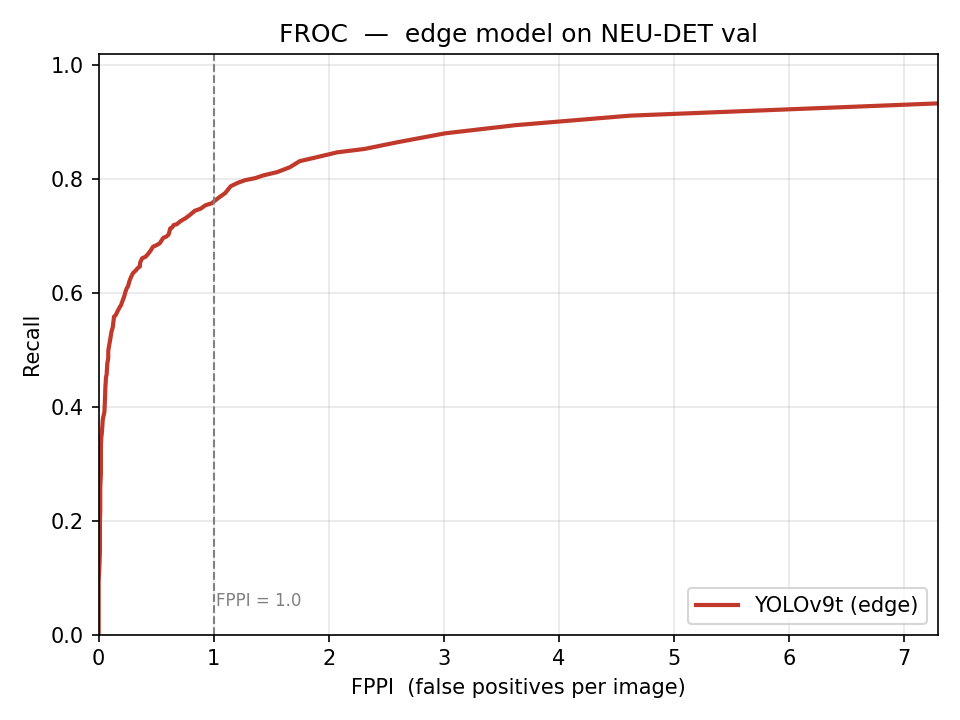
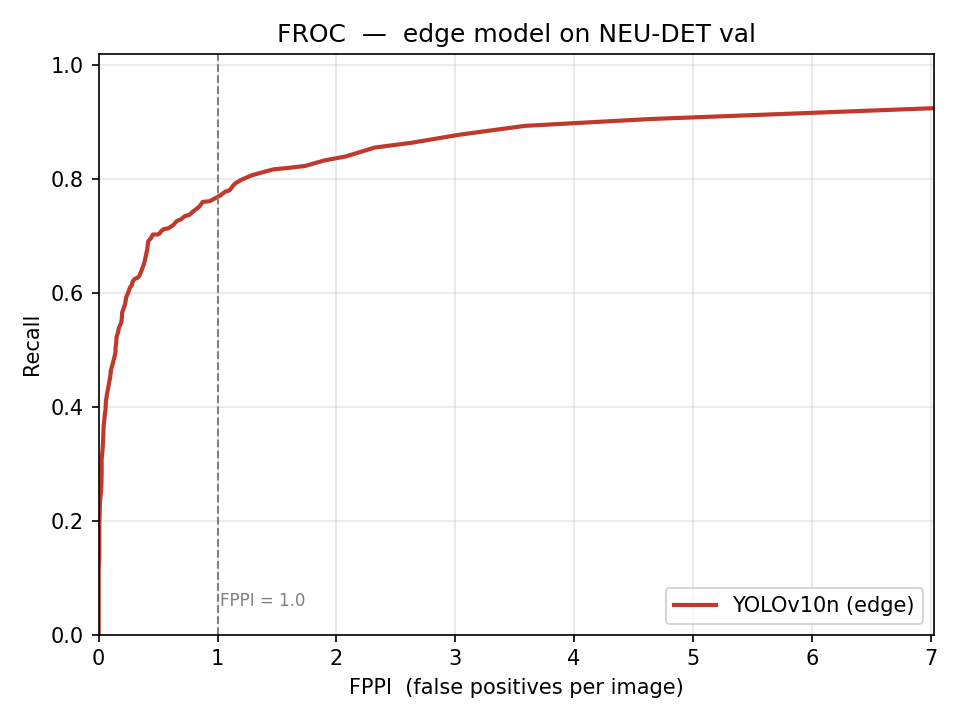
更新评估指标与路由脚本，重新生成 FROC/tau 结果图

diff --git a/tools/eval_metrics.py b/tools/eval_metrics.py
@@ -19,7 +19,7 @@
 
 用法
     python tools/eval_metrics.py
-    python tools/eval_metrics.py --model models/YOLOv9t/yolov9t_best.onnx --imgsz 640
+    python tools/eval_metrics.py --model models/YOLOv10n/yolov10n_best.onnx --imgsz 640
     python tools/eval_metrics.py --split val --iou 0.5 --conf 0.01
 
 产出
@@ -96,7 +96,7 @@ def match_image(preds, gts, iou_thr: float):
 
 def main() -> int:
     ap = argparse.ArgumentParser()
-    ap.add_argument("--model", default="models/YOLOv9t/yolov9t_best.onnx")
+    ap.add_argument("--model", default="models/YOLOv10n/yolov10n_best.onnx")
     ap.add_argument("--root", default=".")
     ap.add_argument("--split", default="val")
     ap.add_argument("--imgsz", type=int, default=640)
@@ -244,7 +244,7 @@ def main() -> int:
         xs = [r["FPPI"] for r in rows]
         ys = [r["Recall"] for r in rows]
         fig, ax = plt.subplots(figsize=(6.4, 4.8), dpi=150)
-        ax.plot(xs, ys, "-", color="#c0392b", lw=2, label="YOLOv9t (edge)")
+        ax.plot(xs, ys, "-", color="#c0392b", lw=2, label="YOLOv10n (edge)")
         ax.axvline(1.0, ls="--", color="gray", lw=1)
         ax.text(1.02, 0.05, "FPPI = 1.0", color="gray", fontsize=8)
         ax.set_xlabel("FPPI  (false positives per image)")

diff --git a/tools/route_v2.py b/tools/route_v2.py
@@ -8,7 +8,7 @@
 5. 结果落盘 CSV + 缓存 JSON（供后续精度评估复用）
 
 用法：python route_v2.py
-前提：models/YOLOv9t/yolov9t_best.onnx 与云端模型路径存在
+前提：models/YOLOv10n/yolov10n_best.onnx 与云端模型路径存在
 """
 import csv, json, time
 from pathlib import Path
@@ -16,7 +16,7 @@ import numpy as np
 from ultralytics import YOLO
 
 # ---------------- 配置 ----------------
-EDGE_MODEL = "models/YOLOv9t/yolov9t_best.onnx"   # 边缘端：ONNX + CPU + imgsz 640
+EDGE_MODEL = "models/YOLOv10n/yolov10n_best.onnx"   # 边缘端：ONNX + CPU + imgsz 640
 CLOUD_MODEL = "models/YOLOv8m/yolov8m_best.pt"    # 云端：FP32 + imgsz 960（换 RT-DETR 时改这里）
 TAU_LIST = [0.2, 0.3, 0.4, 0.5, 0.6, 0.7, 0.8]
 CLOUD_RTT_MS = 80                                  # 模拟边缘→云网络往返

diff --git a/README.md b/README.md
@@ -2,7 +2,7 @@
 
 NEU-DET 钢材表面缺陷质检（1800 张，6 类，200×200 灰度）。
 
-**架构一句话**：边缘端轻量检测（YOLOv9t）负责"**别漏**"，云端 ROI 分类复检（ResNet）负责"**别乱报**"，中间用学习型路由分配上云预算。
+**架构一句话**：边缘端轻量检测（YOLOv10n）负责"**别漏**"，云端 ROI 分类复检（ResNet）负责"**别乱报**"，中间用学习型路由分配上云预算。
 
 ---
 
@@ -61,7 +61,7 @@ python tools\box_stats.py
 
 ```powershell
 python tools\eval_metrics.py
-python tools\eval_metrics.py --model models\YOLOv9t\yolov9t_best.onnx --split val
+python tools\eval_metrics.py --model models\YOLOv10n\yolov10n_best.onnx --split val
 ```
 
 产出：
@@ -148,7 +148,7 @@ git clone <仓库地址>
 
 ## 当前的关键数字（2026-11-22）
 
-边缘模型 v9t，验证集 360 张 / 838 个真实缺陷框：
+边缘模型 v10n，验证集 360 张 / 838 个真实缺陷框：
 
 | 工作点 | Recall | FPPI | Precision |
 |---|---|---|---|
